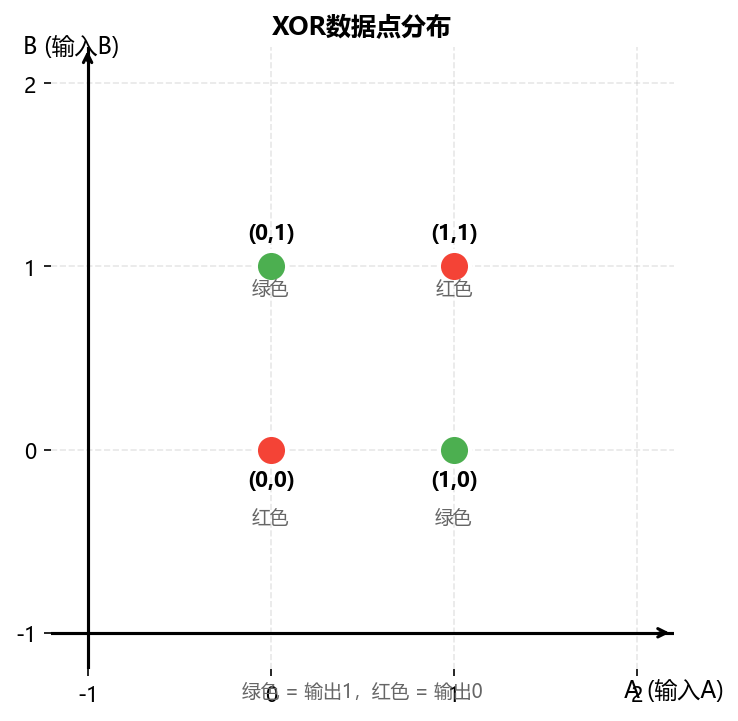
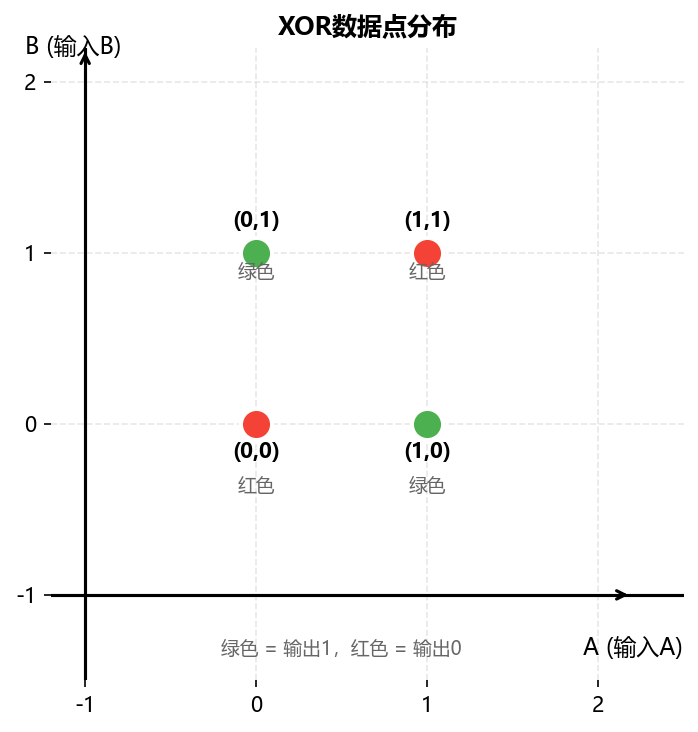
为XOR可视化图片右下角留出水印空白区域

diff --git a/一起学Transformer/01d-前馈神经网络-代码实现_生成XOR可视化图片.py b/一起学Transformer/01d-前馈神经网络-代码实现_生成XOR可视化图片.py
@@ -20,9 +20,9 @@ plt.rcParams['mathtext.fontset'] = 'cm'
 # ==================== 图1：XOR数据点分布 ====================
 fig1, ax1 = plt.subplots(figsize=(5, 5))
 
-# 设置坐标轴范围：-1 到 2
-ax1.set_xlim(-1.2, 2.2)
-ax1.set_ylim(-1.2, 2.2)
+# 设置坐标轴范围：-1 到 2（右下角留出空白用于水印）
+ax1.set_xlim(-1.2, 2.5)
+ax1.set_ylim(-1.5, 2.2)
 ax1.set_aspect('equal')
 
 # 绘制坐标轴（在-1处交叉，作为新的原点）
@@ -84,9 +84,9 @@ plt.close()
 # ==================== 图2：XOR数据点简化版 ====================
 fig2, ax2 = plt.subplots(figsize=(4, 4))
 
-# 设置坐标轴范围：-1 到 2
-ax2.set_xlim(-1.2, 2.2)
-ax2.set_ylim(-1.2, 2.2)
+# 设置坐标轴范围：-1 到 2（右下角留出空白用于水印）
+ax2.set_xlim(-1.2, 2.5)
+ax2.set_ylim(-1.5, 2.2)
 ax2.set_aspect('equal')
 
 # 绘制坐标轴（在-1处交叉，作为新的原点）
@@ -141,9 +141,9 @@ plt.close()
 # ==================== 图3：XOR解决方案 - 两条直线分离 ====================
 fig3, ax3 = plt.subplots(figsize=(5, 5))
 
-# 设置坐标轴范围：-1 到 2
-ax3.set_xlim(-1.2, 2.2)
-ax3.set_ylim(-1.2, 2.2)
+# 设置坐标轴范围：-1 到 2（右下角留出空白用于水印）
+ax3.set_xlim(-1.2, 2.5)
+ax3.set_ylim(-1.5, 2.2)
 ax3.set_aspect('equal')
 
 # 绘制坐标轴（在-1处交叉，作为新的原点）